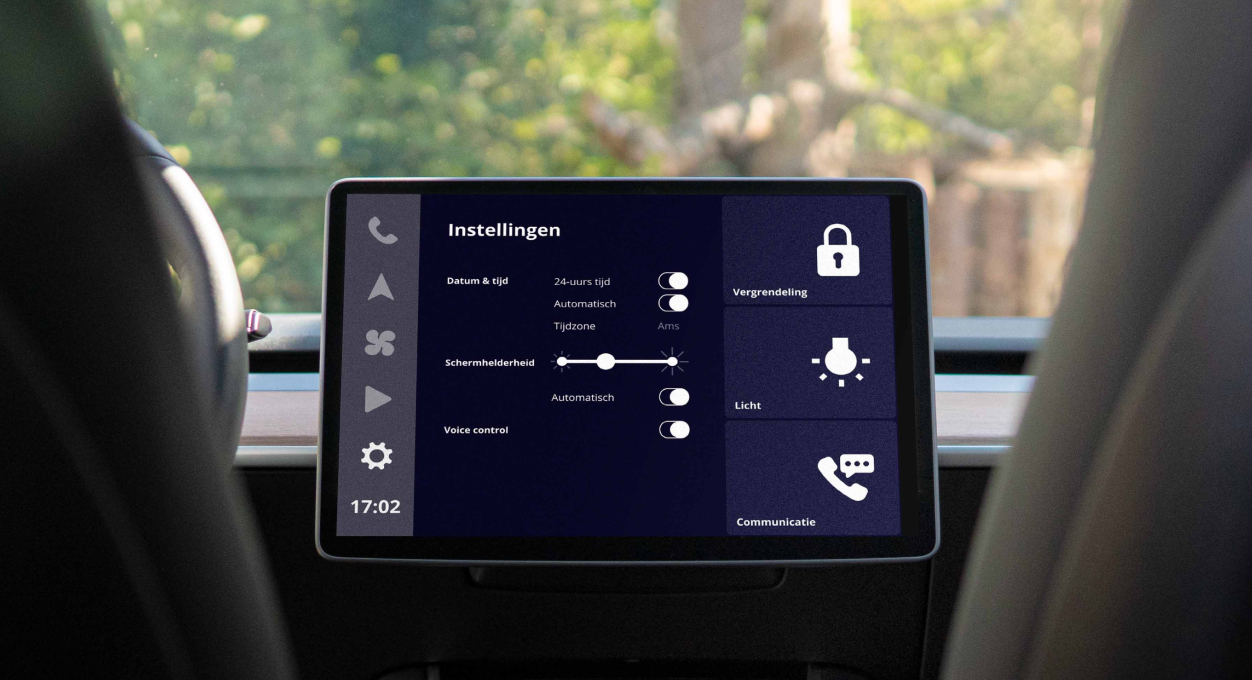
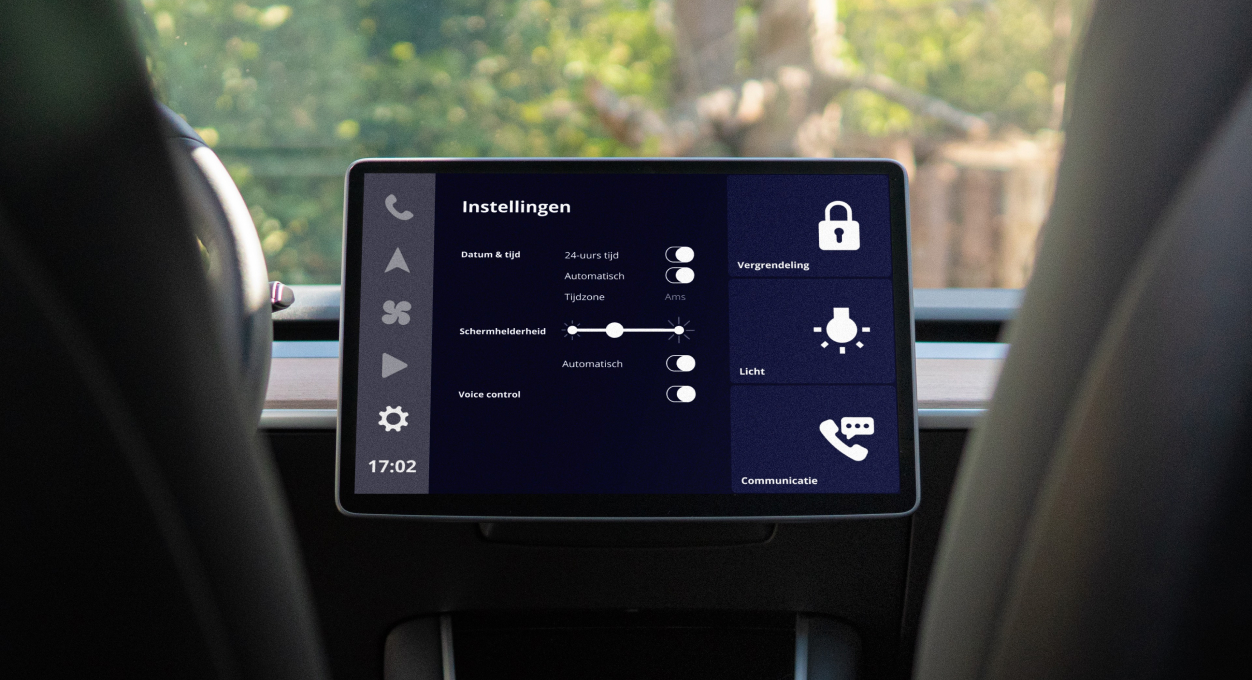
new project page, infotainment system nl and eng

diff --git a/html/infotainment-nl.html b/html/infotainment-nl.html
@@ -1,0 +1,136 @@
+<!DOCTYPE html>
+<html lang="en" translate="no">
+
+<head> 
+<title>Sander Hartog - Project: Infotainment system</title>
+<meta charset="utf-8">
+<meta name="description" content="Ontdek Infotainment system door Sander Hartog, een UX-design project dat gericht is op gebruiksvriendelijk rijden, maar vooral veilig is voor alle leeftijdsgroepen.">
+<meta name="keywords" content="UX-Design, UX, UI, Development, Infotainment, System, Digital, Design, Sander, Hartog, Front-end">
+<meta name="author" content="Sander Hartog">
+<meta name="viewport" content="width=device-width, initial-scale=1.0">
+<meta property="og:image" content="../icons/sanderhartog_featured.jpg">
+<link rel="icon" href="../icons/favicon.ico" type="image/x-icon"/>
+<link rel="stylesheet" href="../css/normalize.css">
+<link rel="stylesheet" href="../css/mainsheet.css">
+<link rel="stylesheet" href="https://fonts.googleapis.com/icon?family=Material+Icons">
+<link rel="preconnect" href="https://fonts.googleapis.com">
+<link rel="preconnect" href="https://fonts.gstatic.com" crossorigin>
+<link href="https://fonts.googleapis.com/css2?family=Chakra+Petch:ital,wght@0,300;0,400;0,500;0,600;0,700;1,300;1,400;1,500;1,600;1,700&display=swap" rel="stylesheet">
+<link rel="preconnect" href="https://fonts.googleapis.com">
+<link rel="preconnect" href="https://fonts.gstatic.com" crossorigin>
+<link href="https://fonts.googleapis.com/css2?family=Chakra+Petch:ital,wght@0,300;0,400;0,500;0,600;0,700;1,300;1,400;1,500;1,600;1,700&family=Hahmlet:wght@100..900&family=Ubuntu:ital,wght@0,300;0,400;0,500;0,700;1,300;1,400;1,500;1,700&display=swap" rel="stylesheet">
+</head>
+
+<body class="wrapper-main background5">
+<header>
+    <nav>
+        <img src="../icons/sanderlogo_max.png" alt="logo van website sander hartog" width="124" class="sanderlogo">
+        <div class="menu-buttons">
+            <button class="btn-filled magnetic"><i class="material-icons" style="font-size: 1.2rem;" onclick="window.location='infotainment-eng.html'">language</i></button>
+            <button class="btn-filled magnetic back" onclick="window.location='index.html'">Go back</button>
+      </div>
+    </nav>
+</header>
+<main>
+    <img src="../images/infotainment-cover.jpg" alt="cover foto project infotainment system iemand die rijdt in een Tesla" class="introduction-cover-img" loading="lazy"> 
+    <div class="introduction-main-title2">
+        <img src="../images/infotainment-title.png" alt="cover logo met 'infotainment system'" class="introduction-img" loading="lazy"  style="margin-top: -2px; margin-bottom: 10px;">
+    </div>
+    <section class="introduction-section-wrapper introduction-desktop">
+        <div class="introduction-text-wrapper introduction-tile-wrapper">
+            <img src="../images/project.jpg" alt="illustratie van man met een computer" height="240" loading="lazy">
+            <div class="introduction-tile1">
+                <h2>Project</h2>
+                <p>Infotainment systeem ontwerp ter verbetering van de rijveiligheid</p>
+            </div>
+        </div>
+        <div class="introduction-text-wrapper introduction-tile-wrapper-rev">
+            <img src="../images/summary.jpg" alt="illustratie van overwerkte kantoormedewerker" height="240" loading="lazy">
+            <div class="introduction-tile2">
+                <h2>Samenvatting</h2>
+                <p>Deze ontwikkeling biedt een veilig en gebruiksvriendelijk infotainment systeem voor alle leeftijden</p>
+            </div>
+        </div>
+        <div class="introduction-text-wrapper introduction-tile-wrapper">
+            <img src="../images/responsibilities.jpg" alt="illustratie van man die zijn bril af heeft"  height="240" loading="lazy">
+            <div class="introduction-tile1">
+                <h2>Verantwoordelijkheden</h2>
+                <p>User Experience Design <br> User Interface Design</p> 
+            </div>
+        </div>
+    </section>
+    <section class="introduction-section-wrapper introduction-mobile">
+        <div class="introduction-text-wrapper">
+            <div class="introduction-tile3">
+                <h2>Project</h2>
+                <p>Infotainment systeem ontwerp ter verbetering van de rijveiligheid</p>
+                <br>
+                <h2>Samenvatting</h2>
+                <p>Deze ontwikkeling biedt een veilig en gebruiksvriendelijk infotainment systeem voor alle leeftijden</p>
+                <br>
+                <h2>Verantwoordelijkheden</h2>
+                <p>User Experience Design<br>User Interface Design</p>
+            </div>
+        </div>
+    </section>
+    <div class="project-internal-content-wrapper project-heading">
+        <h2 class="project-text-h2">Develop</h2>
+        <img src="../icons/develop.png" alt="icoon illustratie doodle met laptop voor develop" class="project-content-img" width="48px" loading="lazy">
+    </div>
+    <section class="project-internal-content-wrapper project-content-wrapper">
+        <div class="project-text-wrapper">
+            <h3 class="project-text-h3">Iteratie 1</h3>
+            <p class="project-text-p1">Ik begon dit project door data te verzamelen en een papieren prototype te maken. Dit papieren prototype was de basis om op voort te bouwen. Ik vergaarde participanten van verschillende leeftijden en liet ze hun dashboard samenstellen. Dit gaf inzicht in behoeften en overeenkomsten:</p> 
+        </div>
+        <ul class="project-text-ul2">    
+            <li>Alle participanten geven de voorkeur aan een volledig 'overzichtskaart'</li>
+            <li>Alle participanten willen hun applicaties aan de linkerkant van het scherm hebben</li>
+            <li>Jongere participanten (van ongeveer 18 tot 30 jaar) zien meer voordeel in het gebruik van applicaties en hebben daarom een gevulder scherm.</li>
+        </ul>
+        <img src="../images/infotainment-lowfid-desktop.jpg" alt="fotos van een papieren prototype die een infotainment / navigatie systeem nabootst" class="project-content-imgbox project-img-desktop project-content-extra" loading="lazy">  
+        <img src="../images/infotainment-lowfid-mobile.jpg" alt="fotos van een papieren prototype die een infotainment / navigatie systeem nabootst" class="project-content-imgbox project-img-mobile" loading="lazy">
+        <div class="project-text-wrapper">
+            <h3 class="project-text-h3">Iteratie 2</h3>
+            <p class="project-text-p1">Tijdens iteratie 2 werd een mid-fidelity prototype ontwikkeld, zodat deelnemers een indruk kregen van hoe hun op-maat-gemaakte prototype in een digitale omgeving zou aanvoelen.
+                <br> <br>
+                Qua functionaliteit zag ik dat veel jongere participanten het systeem makkelijk konden gebruiken tijdens het rijden. Ze waren nog steeds tevreden met de keuzes die ze maakten qua set-up, wat mij de mogelijkheid gaf om een solide infotainmentsysteem te configureren.        
+        </div>
+        <img src="../images/infotainment-midfid.jpg" alt="foto van een participant die het mid-fidelity infotainment systeem prototype in een auto gebruikt" class="project-content-imgbox project-content-extra" loading="lazy">  
+        <div class="project-text-wrapper">
+            <h3 class="project-text-h3">Iteratie 3</h3>
+            <p class="project-text-p1">
+                Het infotainment systeem had visuele verbetering nodig, wat leidde tot een herontwerp op basis van de testresultaten. Ik heb de lay-out herzien, irrelevante apps verwijderd en me gericht op essentiële zaken door prioriteit te geven aan veiligheid in het ontwerp.                
+                <br> <br>
+                Dit ontwerp werd als elegant en gebruiksvriendelijk beschouwd. Ook oudere participanten vonden het makkelijk in gebruik, hoewel ze niet alle functies als bellen zouden gebruiken. Ik heb het systeem opnieuw getest met verschillende deelnemers en me gericht op de afronding.</p>
+        </div>
+        <img src="../images/infotainment-device-nl.gif" alt="iPad die meerdere schermen van het digital infotainment system laat zien, zoals navigatie, contacten, instellingen en muziek display" class="project-content-imgbox project-content-gif" loading="lazy">  
+    </section>
+    <div class="project-internal-content-wrapper project-heading">
+        <h2 class="project-text-h2">Deliver</h2>
+        <img src="../icons/deliver.png" alt="icoon illustratie doodle van deliver" class="project-content-img" width="48px" loading="lazy">
+    </div>
+    <section class="project-internal-content-wrapper project-content-wrapper">
+        <p class="project-text-p2">De laatste week stond in het teken van kleine oplossingen, zoals bugs en een diepgaandere ontwikkeling van de systeeminstellingen.        
+        <br>
+        <br>
+        Het product is consistent met de gegeven opdracht. Veel deelnemers voelden zich veilig tijdens het rijden en het gebruik van het digitale infotainment systeem. Dit was voor mij een bevestiging dat het product succesvol was, ook waren alle essentiële onderdelen beschikbaar en toegankelijk bevonden.</p>
+        <div class="popup-container" id="popupContainer">
+        <a href="https://www.figma.com/proto/8L8t49KSPvubpPbTorXUnr/Digital-Infotainment-System?page-id=1508%3A8323&node-id=1523-16472&node-type=frame&viewport=1016%2C-180%2C0.07&t=3wFGu17HTjC2SI9h-1&scaling=scale-down&content-scaling=fixed&starting-point-node-id=1523%3A16472" target="_blank">
+                <figure>
+                <img src="../images/infotainment-prototype-nl.jpg" alt="binnenkant van Tesla met contacten op display" class="project-content-imgbox" loading="lazy">
+                </figure>
+            </a>
+            <div class="popup-content" id="popupContent">
+                Test het prototype zelf!
+            </div>
+        </div>
+    </section>
+    <div class="project-internal-content-wrapper">
+        <a href="mixed-nl.html">
+        <h3 class="project-text-end">Volgend project</h3>
+        </a>
+    </div>
+</main>
+<script src="../js/textpopup.js"></script>
+<script src="../js/button.js"></script>
+</body>

diff --git a/html/infotainment-eng.html b/html/infotainment-eng.html
@@ -1,0 +1,135 @@
+<!DOCTYPE html>
+<html lang="en" translate="no">
+
+<head> 
+<title>Sander Hartog - Project: Infotainment system</title>
+<meta charset="utf-8">
+<meta name="description" content="Explore Infotainment system by Sander Hartog, a UX-design project that is focussed on user friendly driving but most of all safe for all age groups.">
+<meta name="keywords" content="UX-Design, UX, UI, Development, Infotainment, System, Digital, Design, Sander, Hartog, Front-end">
+<meta name="author" content="Sander Hartog">
+<meta name="viewport" content="width=device-width, initial-scale=1.0">
+<meta property="og:image" content="../icons/sanderhartog_featured.jpg">
+<link rel="icon" href="../icons/favicon.ico" type="image/x-icon"/>
+<link rel="stylesheet" href="../css/normalize.css">
+<link rel="stylesheet" href="../css/mainsheet.css">
+<link rel="stylesheet" href="https://fonts.googleapis.com/icon?family=Material+Icons">
+<link rel="preconnect" href="https://fonts.googleapis.com">
+<link rel="preconnect" href="https://fonts.gstatic.com" crossorigin>
+<link href="https://fonts.googleapis.com/css2?family=Chakra+Petch:ital,wght@0,300;0,400;0,500;0,600;0,700;1,300;1,400;1,500;1,600;1,700&display=swap" rel="stylesheet">
+<link rel="preconnect" href="https://fonts.googleapis.com">
+<link rel="preconnect" href="https://fonts.gstatic.com" crossorigin>
+<link href="https://fonts.googleapis.com/css2?family=Chakra+Petch:ital,wght@0,300;0,400;0,500;0,600;0,700;1,300;1,400;1,500;1,600;1,700&family=Hahmlet:wght@100..900&family=Ubuntu:ital,wght@0,300;0,400;0,500;0,700;1,300;1,400;1,500;1,700&display=swap" rel="stylesheet">
+</head>
+
+<body class="wrapper-main background5">
+<header>
+    <nav>
+        <img src="../icons/sanderlogo_max.png" alt="logo from website sander hartog" width="124" class="sanderlogo">
+        <div class="menu-buttons">
+            <button class="btn-filled magnetic"><i class="material-icons" style="font-size: 1.2rem;" onclick="window.location='infotainment-nl.html'">language</i></button>
+            <button class="btn-filled magnetic back" onclick="window.location='index.html'">Go back</button>
+      </div>
+    </nav>
+</header>
+<main>
+    <img src="../images/infotainment-cover.jpg" alt="cover photo project infotainment system, someone driving a Tesla" class="introduction-cover-img" loading="lazy"> 
+    <div class="introduction-main-title2">
+        <img src="../images/infotainment-title.png" alt="cover logo with 'infotainment system'" class="introduction-img" loading="lazy"  style="margin-top: -2px; margin-bottom: 10px;">
+    </div>
+    <section class="introduction-section-wrapper introduction-desktop">
+        <div class="introduction-text-wrapper introduction-tile-wrapper">
+            <img src="../images/project.jpg" alt="illustration of men with a computer" height="240" loading="lazy">
+            <div class="introduction-tile1">
+                <h2>Project</h2>
+                <p>Infotainment system design to enhance driving safety</p>
+            </div>
+        </div>
+        <div class="introduction-text-wrapper introduction-tile-wrapper-rev">
+            <img src="../images/summary.jpg" alt="illustration of overworked office employee" height="240" loading="lazy">
+            <div class="introduction-tile2">
+                <h2>Summary</h2>
+                <p>I helped to develop a safe, user-friendly infotainment system for all age groups</p>
+            </div>
+        </div>
+        <div class="introduction-text-wrapper introduction-tile-wrapper">
+            <img src="../images/responsibilities.jpg" alt="illustration of men cleaning his glasses"  height="240" loading="lazy">
+            <div class="introduction-tile1">
+                <h2>Responsibilities</h2>
+                <p>User Experience Design <br> User Interface Design</p> 
+            </div>
+        </div>
+    </section>
+    <section class="introduction-section-wrapper introduction-mobile">
+        <div class="introduction-text-wrapper">
+            <div class="introduction-tile3">
+                <h2>Project</h2>
+                <p>Infotainment system design to enhance driving safety</p>
+                <br>
+                <h2>Summary</h2>
+                <p>I helped to develop a safe, user-friendly infotainment system for all age groups</p>
+                <br>
+                <h2>Responsibilities</h2>
+                <p>User Experience Design<br>User Interface Design</p>
+            </div>
+        </div>
+    </section>
+    <div class="project-internal-content-wrapper project-heading">
+        <h2 class="project-text-h2">Develop</h2>
+        <img src="../icons/develop.png" alt="icon illustration doodle with laptop" class="project-content-img" width="48px" loading="lazy">
+    </div>
+    <section class="project-internal-content-wrapper project-content-wrapper">
+        <div class="project-text-wrapper">
+            <h3 class="project-text-h3">Iteration 1</h3>
+            <p class="project-text-p1">I started this project by accumulating data, via building a paper prototype. This paper prototype was a foundation to build upon. I gathered participants of various age groups and let them customise their dashboard. This led to insights in terms of their needs and similarities:</p> 
+        </div>
+        <ul class="project-text-ul2">    
+            <li>All participants prefer a full overview map</li>
+            <li>All participants would like to have their applications on the left side of the screen</li>
+            <li>Younger participants (ranging roughly from 18 – 30) see more benefit in using applications and therefore, have a more filled screen</li>
+        </ul>
+        <img src="../images/infotainment-lowfid-desktop.jpg" alt="photos of a paper prototype that simulates an infotainment / navigation system" class="project-content-imgbox project-img-desktop project-content-extra" loading="lazy">  
+        <img src="../images/infotainment-lowfid-mobile.jpg" alt="photos of a paper prototype that simulates an infotainment / navigation system" class="project-content-imgbox project-img-mobile" loading="lazy">
+        <div class="project-text-wrapper">
+            <h3 class="project-text-h3">Iteration 2</h3>
+            <p class="project-text-p1">During iteration 2 a mid-fidelity prototype was developed, to give participants an impression of how their custom build prototype would look and feel in a digital environment.
+                <br> <br>
+                In terms of functionality I found that a lot of younger attendants had an easy time navigating through the system while driving. They were still satisfied with the choices they made in terms of set-up, which gave me the possibility to configure a solid infotainment system.</p>
+        </div>
+        <img src="../images/infotainment-midfid.jpg" alt="photo of a participant that uses the mid-fidelity infotainment system prototype inside a car" class="project-content-imgbox project-content-extra" loading="lazy">  
+        <div class="project-text-wrapper">
+            <h3 class="project-text-h3">Iteration 3</h3>
+            <p class="project-text-p1">
+                The infotainment system needed visual improvement, leading to a redesign based on testing results. I streamlined the layout, removed irrelevant apps and focused on essentials by prioritizing safety in the design.
+                <br> <br>
+                This design was considered to be elegant and user-friendly. Even older aged participants found it easy to use, though some said they wouldn’t use features like making calls. I’ve tested the system again with various contestants and focused on finalisation.</p>
+        </div>
+        <img src="../images/infotainment-device-eng.gif" alt="iPad showing multiple screens of digital infotainment system, such as navigation, contacts, settings and music player" class="project-content-imgbox project-content-gif" loading="lazy">  
+    </section>
+    <div class="project-internal-content-wrapper project-heading">
+        <h2 class="project-text-h2">Deliver</h2>
+        <img src="../icons/deliver.png" alt="icon illustration doodle deliver" class="project-content-img" width="48px" loading="lazy">
+    </div>
+    <section class="project-internal-content-wrapper project-content-wrapper">
+        <p class="project-text-p2">The last week was dedicated to minor fixes, such as bugs and more in depth development of the system settings. 
+        <br>
+        <br>
+        The product is consistent with the assignment given. A lot of contestants felt safe while driving and using the digital infotainment system. This was a conformation for me that the product was successful, also all essential parts were available and found to be accessible.        <div class="popup-container" id="popupContainer">
+            <a href="https://www.figma.com/proto/8L8t49KSPvubpPbTorXUnr/Digital-Infotainment-System?page-id=0%3A1&node-id=1523-16493&node-type=canvas&viewport=4457%2C898%2C0.12&t=O5lub5JwxKk7vqE6-1&scaling=scale-down&content-scaling=fixed&starting-point-node-id=1523%3A16493" target="_blank">
+                <figure>
+                <img src="../images/infotainment-prototype-eng.jpg" alt="inside of a Tesla with contacts on display" class="project-content-imgbox" loading="lazy">
+                </figure>
+            </a>
+            <div class="popup-content" id="popupContent">
+                Click to test the prototype!
+            </div>
+        </div>
+    </section>
+    <div class="project-internal-content-wrapper">
+        <a href="mixed-eng.html">
+        <h3 class="project-text-end">Next project</h3>
+        </a>
+    </div>
+</main>
+<script src="../js/textpopup.js"></script>
+<script src="../js/button.js"></script>
+</body>

diff --git a/css/mainsheet.css b/css/mainsheet.css
@@ -113,6 +113,13 @@ figure {
     background-size: 400% 400%;
 }
 
+.background5 {
+    height: auto;
+    background: radial-gradient(#2b562a31, #58415532, #1f1d3341);
+    animation: gradient 20s ease infinite; 
+    background-size: 400% 400%;
+}
+
 @-webkit-keyframes gradient{
     0% {
       background-position: 0 50%;
@@ -558,6 +565,16 @@ header {
     padding-bottom: 16px;
 }
 
+.project-content-gif {
+    padding-top: 1px;
+    padding-bottom: 20px;
+}
+
+.project-content-extra {
+    margin-top: 24px; 
+    margin-bottom: 24px;
+}
+
 .project-text-wrapper {
     display: flex;
     gap: 20px;
@@ -579,6 +596,12 @@ header {
 
 .project-text-ul {
     margin-top: -20px;
+}
+
+.project-text-ul2 {
+    margin-top: -20px;
+    margin-left: 23%;
+    padding-bottom: 10px;
 }
 
 .project-text-h2 {
@@ -947,6 +970,7 @@ section > div > div > a:hover {
     .popup-content {
         top: 78%;
     }
+
 }
 
 @media only screen and (min-width: 1200px) {
@@ -987,10 +1011,14 @@ section > div > div > a:hover {
     }
 
     .introduction-img {
-        padding-top: 20px;
-        width: calc(20% - 48px);
+        padding-top: 18px;
+        width: calc(21% - 48px);
     }
     .popup-content {
         top: 82%;
+    }
+
+    .project-content-gif {
+        padding-inline: 48px;
     }
 }

diff --git a/html/index.html b/html/index.html
@@ -145,7 +145,7 @@
                 <img src="../images/select-home-cover-eng.jpg" alt="macbook pro on wooden table with project select" class="home-project-img-wrapper static" width="626" height="378" loading="lazy">
             </div>  
         </a>
-        <a onclick="(alert('Still in development'))">
+        <a href="infotainment-eng.html">
             <div class="project-item">
                 <div class="tag-header-container">
                     <h2>Infotainment system</h2>
@@ -157,7 +157,7 @@
                         <p class="tag3">Design</p>
                     </div>
                 </div>
-                <img src="../images/infotainment-home-cover-nl.jpg" alt="infotainment system in a car" class="home-project-img-wrapper static" width="626" height="378" loading="lazy">
+                <img src="../images/infotainment-home-cover-eng.jpg" alt="infotainment system in a car" class="home-project-img-wrapper static" width="626" height="378" loading="lazy">
             </div>
         </a> 
     </section>

diff --git a/html/carebot-nl.html b/html/carebot-nl.html
@@ -111,7 +111,7 @@
     </section>
     <div class="project-internal-content-wrapper project-heading">
         <h2 class="project-text-h2">Deliver</h2>
-        <img src="../icons/deliver.png" alt="icon illustratie doodle van deliver" class="project-content-img" width="48px" loading="lazy">
+        <img src="../icons/deliver.png" alt="icoon illustratie doodle van deliver" class="project-content-img" width="48px" loading="lazy">
     </div>
     <section class="project-internal-content-wrapper project-content-wrapper">
         <p class="project-text-p2">De laatste fase was gewijd aan kleine reparaties, zoals bugs en een meer diepgaande ontwikkeling van de vooraf geschreven vragen en antwoorden. Evenals het voorbereiden van een in-depth presentatie voor de stakeholders.

diff --git a/html/select-nl.html b/html/select-nl.html
@@ -141,7 +141,7 @@
         </div>
     </section>
     <div class="project-internal-content-wrapper">
-        <a href="index.html">
+        <a href="infotainment-nl.html">
         <h3 class="project-text-end">Volgend project</h3>
         </a>
     </div>

diff --git a/html/select-eng.html b/html/select-eng.html
@@ -141,7 +141,7 @@
         </div>
     </section>
     <div class="project-internal-content-wrapper">
-        <a href="index.html">
+        <a href="infotainment-eng.html">
         <h3 class="project-text-end">Next project</h3>
         </a>
     </div>
